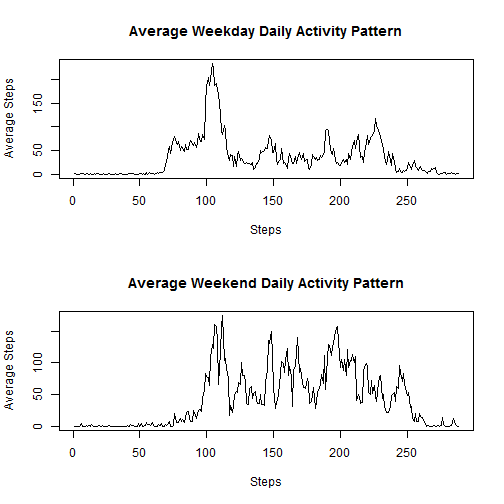
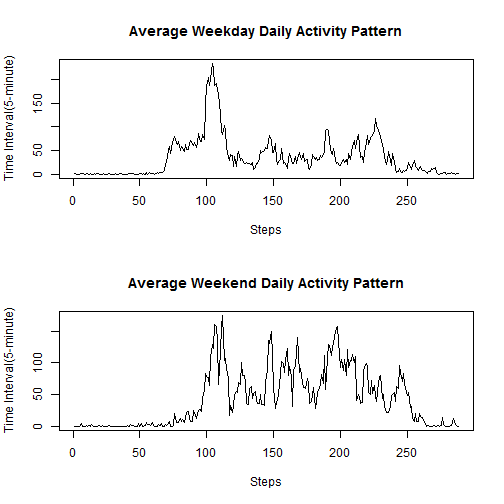
Update Rmd, md and html files

Changed region(s): [[0.0, 0.5952, 0.0298, 0.8631], [0.0, 0.119, 0.0298, 0.3571]]

diff --git a/PA1_template.html b/PA1_template.html
@@ -424,12 +424,12 @@ act_weekend &lt;- filter(activity, week == &quot;weekend&quot;)
 avg_steps_weekend &lt;- tapply(act_weekend$steps, act_weekend$interval, mean, na.rm=TRUE)
 
 # Draw the graph
-plot(x = 1:288, y = avg_steps_weekday, type = &quot;l&quot;, xlab = &quot;Steps&quot;, ylab = &quot;Average Steps&quot;, main = &quot;Average Weekday Daily Activity Pattern&quot;)
+plot(x = 1:288, y = avg_steps_weekday, type = &quot;l&quot;, xlab = &quot;Steps&quot;, ylab = &quot;Time Interval(5-minute)&quot;, main = &quot;Average Weekday Daily Activity Pattern&quot;)
 
-plot(x = 1:288, y = avg_steps_weekend, type = &quot;l&quot;, xlab = &quot;Steps&quot;, ylab = &quot;Average Steps&quot;, main = &quot;Average Weekend Daily Activity Pattern&quot;)
+plot(x = 1:288, y = avg_steps_weekend, type = &quot;l&quot;, xlab = &quot;Steps&quot;, ylab = &quot;Time Interval(5-minute)&quot;, main = &quot;Average Weekend Daily Activity Pattern&quot;)
 </code></pre>
 
[2 lines of base64/hex data omitted]
 
 </body>
 

diff --git a/PA1_template.md b/PA1_template.md
@@ -251,9 +251,9 @@ act_weekend <- filter(activity, week == "weekend")
 avg_steps_weekend <- tapply(act_weekend$steps, act_weekend$interval, mean, na.rm=TRUE)
 
 # Draw the graph
-plot(x = 1:288, y = avg_steps_weekday, type = "l", xlab = "Steps", ylab = "Average Steps", main = "Average Weekday Daily Activity Pattern")
+plot(x = 1:288, y = avg_steps_weekday, type = "l", xlab = "Steps", ylab = "Time Interval(5-minute)", main = "Average Weekday Daily Activity Pattern")
 
-plot(x = 1:288, y = avg_steps_weekend, type = "l", xlab = "Steps", ylab = "Average Steps", main = "Average Weekend Daily Activity Pattern")
+plot(x = 1:288, y = avg_steps_weekend, type = "l", xlab = "Steps", ylab = "Time Interval(5-minute)", main = "Average Weekend Daily Activity Pattern")
 ```
 
 ![plot of chunk unnamed-chunk-12](figure/unnamed-chunk-12-1.png) 
